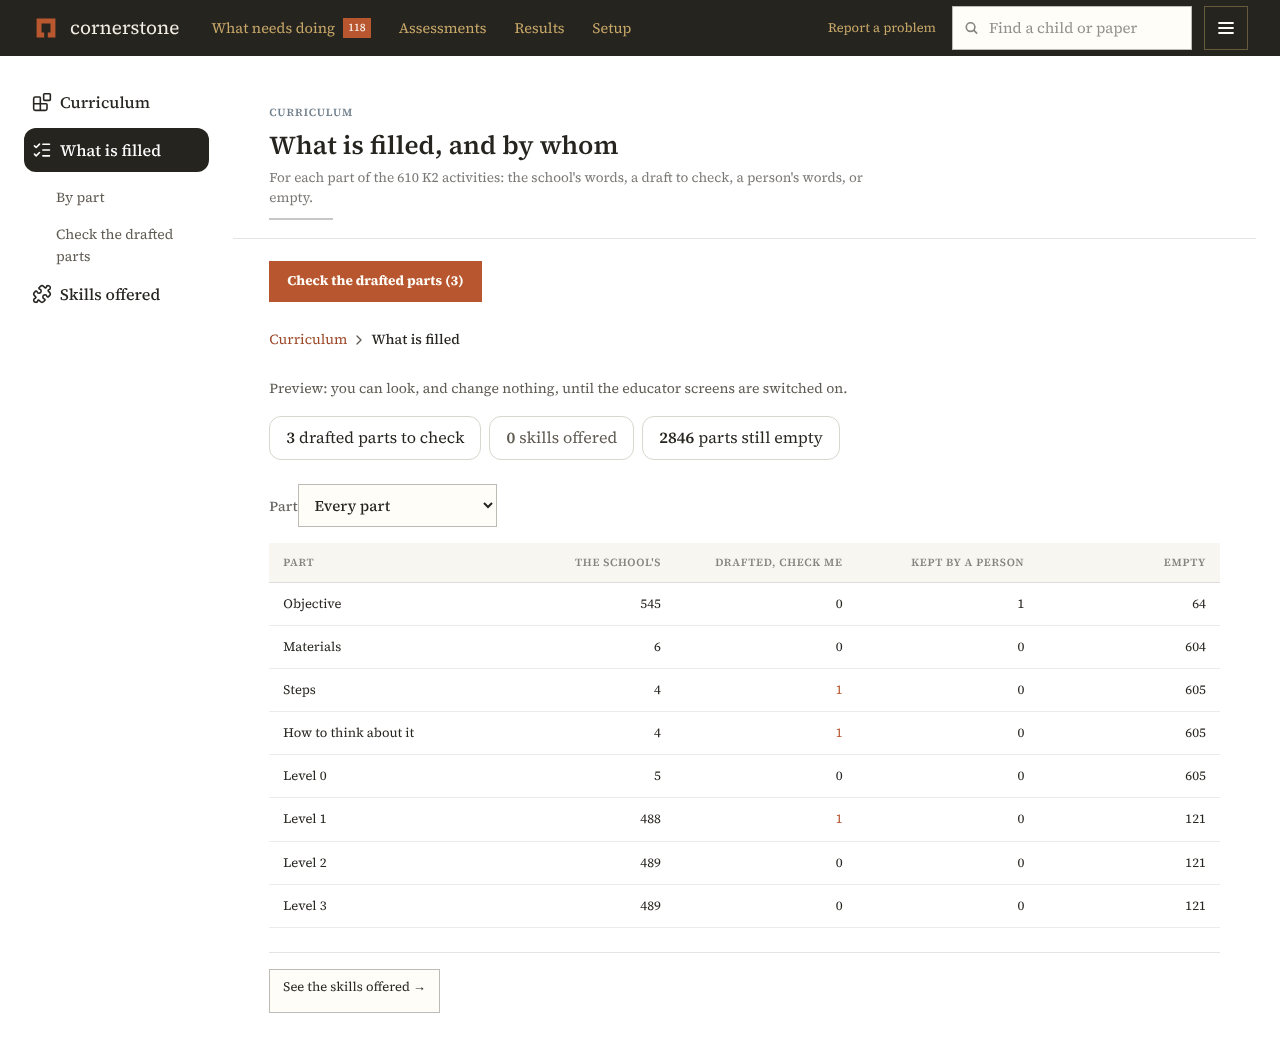
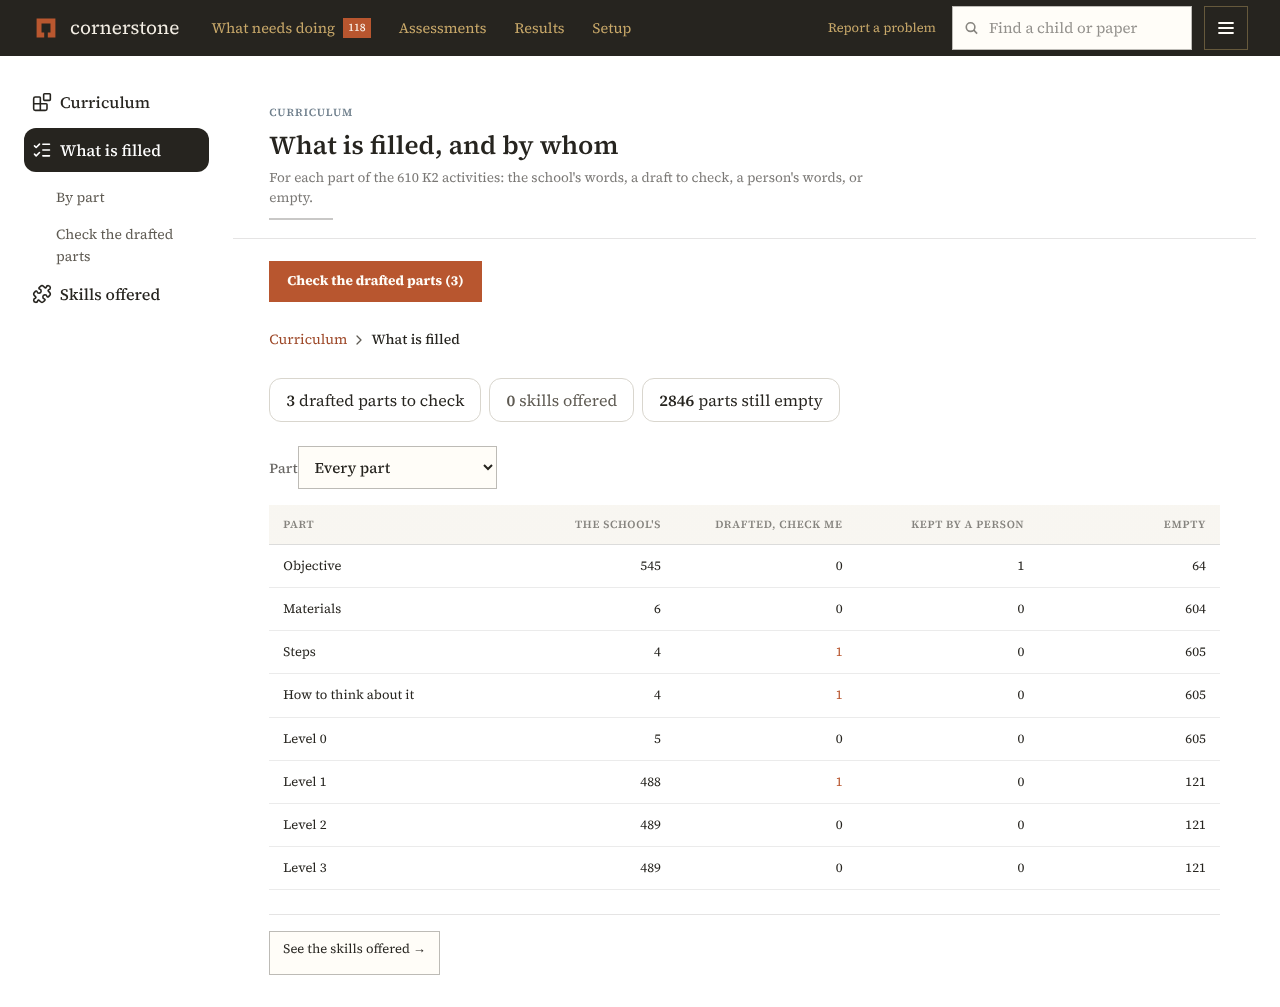
M1-13b: the review does not wait for the educator switch: curriculum.review_roles (head, coordinator)
Claude-Session: https://claude.ai/code/session_01KEBF28q3XY1kZwZMF6wuM7

diff --git a/apps/web/tests/m1-13-curriculum-fill.spec.ts b/apps/web/tests/m1-13-curriculum-fill.spec.ts
@@ -40,7 +40,7 @@ test.afterAll(async () => {
   await sql.end();
 });
 test.beforeEach(async ({ page }) => {
-  await gate(sql, "preview");
+  await gate(sql, "reviewer");
   await page.setViewportSize(DESKTOP);
 });
 
@@ -54,8 +54,8 @@ test("closed to staff with no preview role while the switch is off: every addres
   }
 });
 
-test("open to the staff preview with the switch off, and to staff once it is on", async ({ page }) => {
-  for (const mode of ["preview", "open"] as const) {
+test("open to head with the switch off (to look, or to review), and to staff once it is on", async ({ page }) => {
+  for (const mode of ["look", "reviewer", "open"] as const) {
     await gate(sql, mode);
     for (const url of ADDRESSES) {
       await page.goto(url);
@@ -128,7 +128,7 @@ test("the fill view counts each part by who wrote it, and the four add up to eve
 });
 
 test("a person walks the drafted parts one by one: edit, keep, send back — five taps", async ({ page }) => {
-  await gate(sql, "open"); // changing a part needs the educator switch itself: a preview only looks
+  // the review needs no educator switch: head holds a review role (curriculum.review_roles), the switch is off
   taps = 0;
   await page.goto("/curriculum/fill");
   await tap(page.locator("[data-ux=action]").getByRole("link", { name: /Check the drafted parts/ })); // the page's main action (the menu has one too)
@@ -156,7 +156,6 @@ test("a person walks the drafted parts one by one: edit, keep, send back — fiv
 });
 
 test("the offered-skills queue shows the activity, skills, what was linked, the reason; yes links, no closes", async ({ page }) => {
-  await gate(sql, "open");
   await offers(sql, skills);
   await page.goto("/curriculum/offers");
   await expect(page.getByRole("heading", { level: 1 })).toHaveText("Skills offered, waiting for you");
@@ -183,7 +182,7 @@ test("the offered-skills queue shows the activity, skills, what was linked, the 
 
 test("the staff preview looks and changes nothing: the drafts and offers show, with no Keep, Edit, Send back, Yes or No", async ({ page }) => {
   await curriculumRows(sql); // the walk-through above answered the drafts: they are written again
-  await gate(sql, "preview");
+  await gate(sql, "look");
   await offers(sql, skills);
   await page.goto("/curriculum/fill/walk");
   await expect(page.locator("[data-preview]")).toContainText("Preview");

diff --git a/apps/web/tests/m1-13-rows.ts b/apps/web/tests/m1-13-rows.ts
@@ -92,14 +92,17 @@ export async function clearOffers(sql: Sql): Promise<void> {
       and not exists (select 1 from curriculum_proposal f where f.about = p.id)`;
 }
 
-/** Who the educator gate lets in (D-076): "closed" (switch off, tester holds no preview role), "preview" (switch off,
- *  tester holds head, a role `educator.preview_roles` names), "open" (switch on). Put back with `gate(sql, "closed")`. */
-export async function gate(sql: Sql, mode: "closed" | "preview" | "open") {
+/** Who the curriculum gate lets in (D-076, and the review rule): "closed" (the educator switch off, the tester holds no
+ *  role), "reviewer" (switch off, the tester holds head, a role `curriculum.review_roles` names: looks and changes things),
+ *  "look" (switch off, head, but review_roles names another role: the staff preview, who only looks), "open" (switch on).
+ *  Put back with `gate(sql, "closed")`, which also puts the review roles back as seeded. */
+export async function gate(sql: Sql, mode: "closed" | "reviewer" | "look" | "open") {
   await sql`update config set value = ${mode === "open" ? sql`'true'::jsonb` : sql`'false'::jsonb`} where key = 'educator.timetable_enabled'`;
+  await sql`update config set value = ${sql.json(mode === "look" ? ["ops"] : ["head", "coordinator"])} where key = 'curriculum.review_roles'`;
   const [{ staff_id: staff, tenant_id: t }] = await sql<{ staff_id: string; tenant_id: string }[]>`select staff_id, tenant_id from pii.staff where email = ${TEST_STAFF.email}`;
   // a grant is never deleted and an ended one is never reopened (the table refuses both): "closed" ends this test's grants
-  // by their date, and "preview" gives the tester a new one unless one is open
-  if (mode !== "preview") {
+  // by their date, and the others give the tester a new one unless one is open
+  if (mode === "closed" || mode === "open") {
     await sql`update staff_role_grant set valid_to = valid_from where staff_id = ${staff} and granted_by = 'm1-13b test' and valid_to is null`;
     return;
   }

diff --git a/apps/web/lib/curriculum-screens.ts b/apps/web/lib/curriculum-screens.ts
@@ -1,8 +1,8 @@
 import { cache } from "react";
+import { notFound } from "next/navigation";
 import type { Session } from "./auth";
 import { sql } from "./db";
 import { engineSend } from "./engine";
-import { openTo } from "./educator/data";
 import { PART_KEYS, PART_WORDS, type PagePart, type PartKey } from "./page-part";
 
 // The curriculum screens (task M1-13): the browser, the fill view and its walk-through, the offered-skills queue. Reads
@@ -22,10 +22,15 @@ export const stateOf = cache(async (): Promise<(share: number) => State> => {
   return (share) => (share >= green ? "green" : share >= amber ? "amber" : "red");
 });
 
-/** Whether the curriculum screens are open to this sign-in: the educator gate (the switch on, or the staff preview), once
- *  per request, through the same call the educator's screens make. Not open, or not on the staff list, is not found.
- *  `previewing`: the switch is off and this person is the staff preview, who looks and changes nothing (D-076). */
-export const mustBeOn = cache(async (email: string): Promise<{ previewing: boolean }> => openTo({ email }));
+/** Whether the curriculum screens are open to this sign-in, once per request: the engine's gate (the educator switch on,
+ *  the staff preview, or a role the review names). Not open, or not on the staff list, is not found. `reviews`: they may
+ *  keep, edit, send back and answer offers; without it the staff preview looks and changes nothing (D-076). */
+export const mustBeOn = cache(async (email: string): Promise<{ reviews: boolean }> => {
+  const res = await engineSend("/curriculum/page/gate", { actor: email });
+  if (res.status === 403 || res.status === 404) notFound();
+  if (!res.ok) throw new Error(`The engine refused that (${res.status}).`);
+  return (await res.json()) as { reviews: boolean };
+});
 
 /** The grade these screens list: the config row `curriculum.screens_grade` (the code of a row of `grade`). */
 const grade = cache(async () => {

diff --git a/apps/web/app/(app)/curriculum/offers/page.tsx b/apps/web/app/(app)/curriculum/offers/page.tsx
@@ -10,7 +10,7 @@ import { Chrome, Empty, Pager } from "../chrome";
 // had already linked, and why it waits. Yes adds the link; No closes the offer.
 export default async function Offers({ searchParams }: { searchParams: Promise<Record<string, string | undefined>> }) {
   const me = await requireStaff();
-  const { previewing } = await mustBeOn(me.email);
+  const { reviews } = await mustBeOn(me.email);
   const q = await searchParams;
   const all = await readOffers(me.email);
   const last = Math.max(1, Math.ceil(all.length / PAGE_SIZE));
@@ -43,13 +43,13 @@ export default async function Offers({ searchParams }: { searchParams: Promise<R
                 <b>Already linked:</b> {(had.get(o.activity.code) ?? []).map((s) => `${s.code} ${s.name}`).join(", ") || "none"}
               </p>
               <p className="cs-note">{o.reason}</p>
-              {previewing ? null : (
+              {reviews ? (
               <form action={answerOffer} className="cs-actions">
                 <input type="hidden" name="id" value={o.id} />
                 <button className="cs-btn" data-main type="submit" name="do" value="yes"><Icon name="confirm" size={16} /> Yes, add it</button>
                 <button className="cs-btn" type="submit" name="do" value="no"><Icon name="no" size={16} /> No</button>
               </form>
-              )}
+              ) : null}
             </section>
           ))}
         </div>

diff --git a/apps/web/app/(app)/curriculum/fill/walk/page.tsx b/apps/web/app/(app)/curriculum/fill/walk/page.tsx
@@ -9,7 +9,7 @@ import { PartCard } from "../../parts";
 // one is always the first; "Skip" moves along it without answering.
 export default async function Walk({ searchParams }: { searchParams: Promise<Record<string, string | undefined>> }) {
   const me = await requireStaff();
-  const { previewing } = await mustBeOn(me.email);
+  const { reviews } = await mustBeOn(me.email);
   const q = await searchParams;
   const part = q.part ?? "";
   const line = (await waiting()).filter((w) => !part || w.part === part);
@@ -35,7 +35,7 @@ export default async function Walk({ searchParams }: { searchParams: Promise<Rec
             <p className="cs-note">
               {skip + 1} of {line.length} waiting for a check · {page.section} · <Link href={`/curriculum/fill/${page.code}`}>{page.code}</Link> {page.name}
             </p>
-            <PartCard part={card} code={page.code} back={back} editing={q.edit === "1"} editHref={`${back}${here.size ? "&" : "?"}edit=1`} readOnly={previewing} />
+            <PartCard part={card} code={page.code} back={back} editing={q.edit === "1"} editHref={`${back}${here.size ? "&" : "?"}edit=1`} readOnly={!reviews} />
             {line.length > 1 ? (
               <div className="cs-pager">
                 <span />

diff --git a/apps/web/app/(app)/curriculum/chrome.tsx b/apps/web/app/(app)/curriculum/chrome.tsx
@@ -23,13 +23,13 @@ function trail(here: keyof typeof AREA, crumb?: string) {
 
 export async function Chrome({ here, crumb, children }: { here: keyof typeof AREA; crumb?: string; children: React.ReactNode }) {
   const me = await requireStaff();
-  const { previewing } = await mustBeOn(me.email);
+  const { reviews } = await mustBeOn(me.email);
   const [drafted, gaps, offered] = await Promise.all([waiting(), gap(), readOffers(me.email).catch(() => null)]);
   const empty = gaps.reduce((n, g) => n + g.empty, 0);
   return (
     <>
       <Crumbs trail={trail(here, crumb)} />
-      {previewing ? <p data-preview className="mb-[var(--space-3)] text-[length:var(--text-label)] text-[var(--text-muted)]">Preview: you can look, and change nothing, until the educator screens are switched on.</p> : null}
+      {!reviews ? <p data-preview className="mb-[var(--space-3)] text-[length:var(--text-label)] text-[var(--text-muted)]">Preview: you can look, and change nothing, until the educator screens are switched on.</p> : null}
       <Summary
         items={[
           { label: ["drafted part to check", "drafted parts to check"], n: drafted.length, href: "/curriculum/fill/walk" },

diff --git a/apps/web/app/(app)/curriculum/fill/[code]/page.tsx b/apps/web/app/(app)/curriculum/fill/[code]/page.tsx
@@ -9,7 +9,7 @@ import { PartCard } from "../../parts";
 // One activity with every part, who wrote it, and Keep / Edit / Send back on the drafted ones.
 export default async function ActivityFill({ params, searchParams }: { params: Promise<{ code: string }>; searchParams: Promise<Record<string, string | undefined>> }) {
   const me = await requireStaff();
-  const { previewing } = await mustBeOn(me.email);
+  const { reviews } = await mustBeOn(me.email);
   const { code } = await params;
   const q = await searchParams;
   const page = await readPage(me, decodeURIComponent(code));
@@ -26,7 +26,7 @@ export default async function ActivityFill({ params, searchParams }: { params: P
       <Chrome here="/curriculum/browse" crumb={page.code}>
       <div className="cs-stack">
         {page.parts.map((p) => (
-          <PartCard key={p.part} part={p} code={page.code} back={back} editing={q.edit === p.part} editHref={`${back}?edit=${p.part}`} readOnly={previewing} />
+          <PartCard key={p.part} part={p} code={page.code} back={back} editing={q.edit === p.part} editHref={`${back}?edit=${p.part}`} readOnly={!reviews} />
         ))}
       </div>
       </Chrome>

diff --git a/apps/web/lib/engine-routes.ts b/apps/web/lib/engine-routes.ts
@@ -55,6 +55,7 @@ export type EngineRoutes = {
   "POST /curriculum/offers/list": { actor: string };
   "POST /curriculum/page/confirm": { actor: string; code: string; part: string };
   "POST /curriculum/page/edit": { actor: string; code: string; part: string; text?: string | null; items?: string[] | null; idea?: string | null; slips?: { keyword: string; spot: string }[] | null };
+  "POST /curriculum/page/gate": { actor: string };
   "POST /curriculum/page/read": { actor: string; code: string };
   "POST /curriculum/page/revert": { actor: string; code: string; part: string };
   "POST /graph/rebuild": { child_id?: string | null };

diff --git a/apps/web/tests/m1-13c-page-part.spec.ts b/apps/web/tests/m1-13c-page-part.spec.ts
@@ -42,7 +42,7 @@ test.describe("drawn on a real page", () => {
   const sql = postgres(process.env.DATABASE_URL!, { max: 2 });
   test.beforeAll(async () => {
     await curriculumRows(sql);
-    await gate(sql, "preview");
+    await gate(sql, "reviewer");
   });
   test.afterAll(async () => {
     await gate(sql, "closed");

diff --git a/packages/engine/tests/api/test_curriculum_gate.py b/packages/engine/tests/api/test_curriculum_gate.py
@@ -1,7 +1,8 @@
 """The curriculum screens answer to the educator gate (goals/m1-13b-curriculum-on-the-shell.yaml; D-076, w2_print/educator_gate.py):
 the page and offers routes answer when `educator.timetable_enabled` is on or the member of staff holds a role
-`educator.preview_roles` names, and are refused otherwise, before anything is read or changed. A preview only looks
-(D-076): the routes that change something need the switch itself."""
+`educator.preview_roles` names, and are refused otherwise, before anything is read or changed. A preview only
+looks (D-076); the routes that change something (review: keep, edit, send back, answer an offer) need the switch, or a
+role `curriculum.review_roles` names (head, coordinator): the review fills the content before educators see anything."""
 
 import os
 
@@ -40,6 +41,16 @@ def _switch(conn, on: bool):
         "update config set value = %s::jsonb where key = 'educator.timetable_enabled'",
         ("true" if on else "false",),
     )
+
+
+def _roles(conn, key: str, roles):
+    """The config row `key` as `roles` (a list), or no row at all when `roles` is None."""
+    conn.execute("delete from config where key = %s", (key,))
+    if roles is not None:
+        conn.execute(
+            "insert into config (tenant_id, key, value, description) values (%s, %s, %s::jsonb, 't')",
+            (conn.t, key, __import__("json").dumps(roles)),
+        )
 
 
 def _grant(conn, role: str):
@@ -86,15 +97,53 @@ def test_switched_off_a_role_the_preview_names_may_look(client, conn):
     assert client.post("/curriculum/offers/list", json=WHO, headers=H).status_code == 200
 
 
-def test_switched_off_a_preview_changes_nothing(client, conn):
+def test_switched_off_a_role_the_review_names_may_change_things(client, conn):
     drafted_page(conn)
     _switch(conn, False)
+    _roles(conn, "curriculum.review_roles", ["head", "coordinator"])
     _grant(conn, "head")
+    assert client.post("/curriculum/page/gate", json=WHO, headers=H).json() == {"reviews": True}
+    kept = client.post("/curriculum/page/confirm", json=calls()["page/confirm"], headers=H)
+    assert kept.status_code == 200, kept.text
+    # an offer that is not waiting is answered with the old 409, not a refusal: the gate let it through
+    assert (
+        client.post("/curriculum/offers/answer", json=calls()["offers/answer"], headers=H).status_code == 409
+    )
+
+
+def test_switched_off_a_preview_the_review_does_not_name_changes_nothing(client, conn):
+    drafted_page(conn)
+    _switch(conn, False)
+    _roles(conn, "curriculum.review_roles", ["ops"])
+    _grant(conn, "head")  # a preview role, not a review role
+    assert client.post("/curriculum/page/gate", json=WHO, headers=H).json() == {"reviews": False}
     before = conn.execute("select steps from activity where code = 'KX-1'").fetchone()["steps"]
     for path in WRITES:
         got = client.post(f"/curriculum/{path}", json=calls()[path], headers=H)
         assert (got.status_code, got.json()["detail"]) == (403, LOOK), path
     assert conn.execute("select steps from activity where code = 'KX-1'").fetchone()["steps"] == before
+
+
+def test_without_the_review_row_nobody_reviews_while_the_switch_is_off(client, conn):
+    drafted_page(conn)
+    _switch(conn, False)
+    _roles(conn, "curriculum.review_roles", None)
+    _grant(conn, "head")
+    assert client.post("/curriculum/page/read", json={**WHO, "code": "KX-1"}, headers=H).status_code == 200
+    assert client.post("/curriculum/page/confirm", json=calls()["page/confirm"], headers=H).status_code == 403
+
+
+def test_a_review_role_alone_does_not_open_the_reading_to_others_and_the_switch_opens_all(client, conn):
+    drafted_page(conn)
+    _switch(conn, False)
+    _roles(conn, "curriculum.review_roles", ["head", "coordinator"])
+    _grant(conn, "ops")  # neither a review nor a preview role: an ordinary member of staff
+    for path in ("page/gate", "page/confirm"):
+        assert (
+            client.post(f"/curriculum/{path}", json=calls().get(path, WHO), headers=H).status_code == 403
+        ), path
+    _switch(conn, True)
+    assert client.post("/curriculum/page/gate", json=WHO, headers=H).json() == {"reviews": True}
 
 
 def test_a_role_the_preview_does_not_name_gets_nothing(client, conn):

diff --git a/packages/engine/engine/api/deps.py b/packages/engine/engine/api/deps.py
@@ -87,17 +87,28 @@ def tenant_now() -> str:
         return get_tenant_id(conn)
 
 
+REVIEW = "curriculum.review_roles"
+
+
+def curriculum_reviews(conn, staff) -> bool:
+    """Whether `staff` may review the curriculum (keep, edit, send back a draft, answer an offered skill): the educator
+    switch is on, or they hold a role `curriculum.review_roles` names (head, coordinator). The review fills the content
+    before educators see anything, so it cannot wait for their switch."""
+    return educator_gate.switched_on(conn) or educator_gate.holds(conn, staff, REVIEW)
+
+
 def curriculum_staff(conn, actor: str, *, writes: bool = False):
-    """The member of staff behind `actor`, once the educator gate lets them through (D-076, educator_gate): the switch
-    on, or a role `educator.preview_roles` names. A preview only looks, so a route that changes something (`writes`)
-    needs the switch itself. The one check every route of the curriculum screens makes first, before any field is read,
-    so a refused call learns nothing."""
+    """The member of staff behind `actor`, once the gate lets them through: the educator gate (D-076: the switch on, or
+    a role `educator.preview_roles` names, who only look) or the review's roles. A route that changes something
+    (`writes`) needs the review. The one check every route of the curriculum screens makes first, before any field is
+    read, so a refused call learns nothing."""
     sid = db.one(conn, "select public.staff_of_email(%s) as id", (actor,))["id"]
     if sid is None:
         raise HTTPException(status_code=403, detail="This sign-in is not on the staff list.")
-    if not educator_gate.open_to(conn, sid):
+    reviews = curriculum_reviews(conn, sid)
+    if not (reviews or educator_gate.open_to(conn, sid)):
         raise HTTPException(status_code=403, detail="The curriculum screens are not switched on.")
-    if writes and not educator_gate.switched_on(conn):
+    if writes and not reviews:
         raise HTTPException(
             status_code=403, detail="The preview only looks: the curriculum screens are not switched on."
         )

diff --git a/packages/engine/engine/api/routes/page.py b/packages/engine/engine/api/routes/page.py
@@ -8,7 +8,7 @@ from uuid import UUID
 from fastapi import APIRouter, Depends, HTTPException
 from pydantic import BaseModel
 
-from engine.api.deps import curriculum_staff, get_conn, get_tenant_id, require_engine_key
+from engine.api.deps import curriculum_reviews, curriculum_staff, get_conn, get_tenant_id, require_engine_key
 from engine.w1_bank import k2_page, k2_review
 
 router = APIRouter(prefix="/curriculum/page", dependencies=[Depends(require_engine_key)])
@@ -98,6 +98,17 @@ def _answer(conn, tenant_id: str, body: PartRef, act) -> dict:
         taken = "not a drafted part" in str(e)
         raise HTTPException(status_code=409 if taken else 422, detail=str(e)) from None
     return _page(conn, tenant_id, body.code)
+
+
+class Gate(BaseModel):
+    reviews: bool  # may keep, edit, send back and answer offers; false: the staff preview, who looks only
+
+
+@router.post("/gate", response_model=Gate)
+def gate(body: Who, conn=Depends(get_conn, scope="function")):
+    """Whether this sign-in may review (the site asks before it shows the buttons); refused when the screens are not open
+    to them at all."""
+    return Gate(reviews=curriculum_reviews(conn, _staff(conn, body)))
 
 
 @router.post("/read", response_model=Page)
